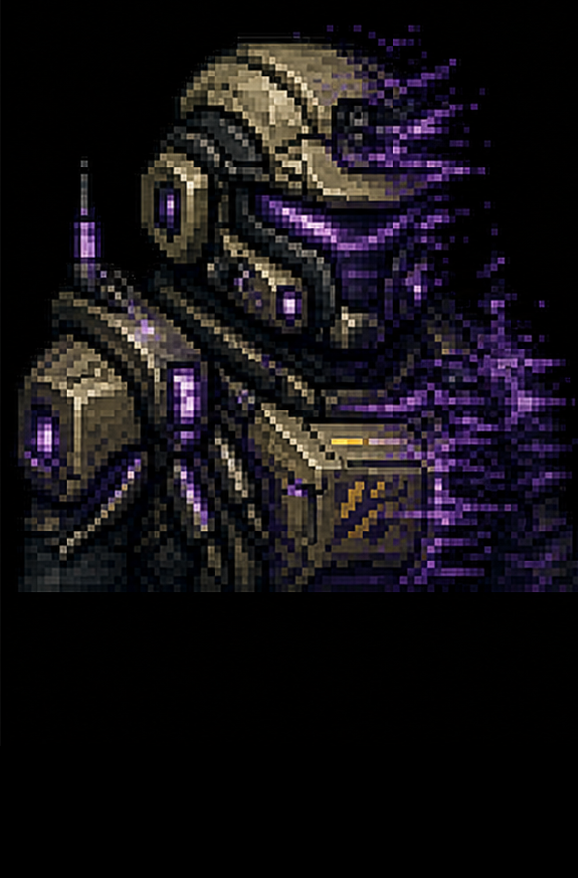
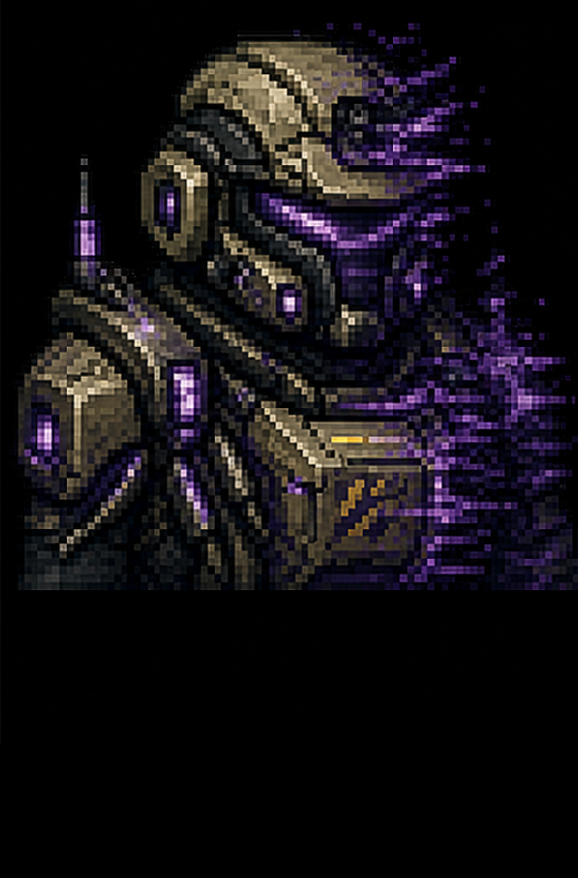
fix(art): the REAL portrait-zoom fix — bypass runtime mat-crop for hero portraits
Root cause of 'still looks the same': DataManager._crop_to_content(matted_bust=true)
re-cropped every hero portrait AT LOAD to its own silhouette bbox, re-deriving the
zoom from per-subject proportions — silently undoing any offline normalization of
the PNGs. Hero + evolution portraits now load through _finalize_hero_portrait:
opaque (offline-normalized) art returns WHOLE and tagged cutout (full_bleed=false,
so square frames keep showing the face and battle cards add the uniform
PORTRAIT_TOP_PAD); art with real alpha still crops to its opaque bbox. Enemy
portrait pipeline untouched. PNGs re-cut from pristine originals with the baked
headroom reduced (14px) to compose with the runtime pad.

Verified NUMERICALLY, not by eye: rendered helmet widths across the squad tiles
measure pixel-identical (111/111/111 px, tops 5/5/5); battle cards within 4%
(74/77/76). Full hard-gate suite passes.

diff --git a/docs/TRUTH.md b/docs/TRUTH.md
@@ -231,7 +231,7 @@ two-player crossfade pair, tracks in `assets/audio/music/sci_fi_loop_N.ogg`
 
 ## Assets — portraits (2026-07-07 wiring pass)
 
-**Hero portraits:** base art `assets/portraits/<hero_id>.png` (`DataManager.HERO_PORTRAIT_BY_ID`). **Evolved art convention: `assets/portraits/<hero_id>_<evo_id>.png`**, where `evo_id` is the evolution entry's `id` field in `heroes.data.json` — the lowercased callsign, schema-enforced (pyro, arc, blade, ravager, bulwark, sentinel, glacier, trench, medic, synth, overclocked, phantom, shadow, wraith, noise, nullwire). `DataManager.get_evolution_portrait()` resolves it; a missing file silently falls back to the base portrait (never errors, never blanks). The swap rides `GameState.get_run_unit_data()`, so every run-unit surface (battle cards, equip labels, sim) inherits it; the evolution screen previews each branch's own portrait. All 24 files (8 base overwrites + 16 evolutions) installed 2026-07-07. Both art styles pass through the crop-to-content contract (`_crop_to_content`, cutout vs full-bleed tag). **Zoom-normalized 2026-07-12 (Batch 6, two passes):** the source art was authored at inconsistent subject zooms (some busts ~20% larger than others), so every hero portrait PNG (25 files incl. variants) was re-cropped to a common helmet size + top position — a full-bleed bust at one consistent zoom/POV across the whole roster. Cropping only (native-res, no upscale). Automated silhouette metrics alone were NOT sufficient (helmet designs differ — side pods/antennas make measured width ≠ perceived size): the final pass is an auto baseline plus ~12 per-file hand-tuned zoom multipliers, converged over contact-sheet review rounds. If a portrait is ever re-authored, re-check it against the roster at card size rather than trusting a width metric.
+**Hero portraits:** base art `assets/portraits/<hero_id>.png` (`DataManager.HERO_PORTRAIT_BY_ID`). **Evolved art convention: `assets/portraits/<hero_id>_<evo_id>.png`**, where `evo_id` is the evolution entry's `id` field in `heroes.data.json` — the lowercased callsign, schema-enforced (pyro, arc, blade, ravager, bulwark, sentinel, glacier, trench, medic, synth, overclocked, phantom, shadow, wraith, noise, nullwire). `DataManager.get_evolution_portrait()` resolves it; a missing file silently falls back to the base portrait (never errors, never blanks). The swap rides `GameState.get_run_unit_data()`, so every run-unit surface (battle cards, equip labels, sim) inherits it; the evolution screen previews each branch's own portrait. All 24 files (8 base overwrites + 16 evolutions) installed 2026-07-07. Both art styles pass through the crop-to-content contract (`_crop_to_content`, cutout vs full-bleed tag). **Zoom-normalized 2026-07-12 (Batch 6, three passes — the third one is the load-bearing one):** the source art was authored at inconsistent subject zooms (some busts ~20% larger than others), so every hero portrait PNG (25 files incl. variants) was re-cropped OFFLINE to a common helmet size + top position (auto baseline + ~12 per-file hand-tuned zoom multipliers; cropping only, native-res). **Critically, the runtime mat-crop was the real culprit:** `DataManager._crop_to_content(matted_bust=true)` re-cropped every hero portrait at load to its own silhouette bbox, re-deriving zoom from per-subject proportions and silently undoing any offline framing. Hero portraits now load through `_finalize_hero_portrait` — opaque (normalized) art is returned WHOLE, tagged cutout (`full_bleed=false`, so square frames still show the face and battle cards add the uniform `PORTRAIT_TOP_PAD`); only art with real alpha still crops to its opaque bbox. Enemy portraits keep the old pipeline untouched. Verified numerically: rendered helmet widths across the squad tiles measure pixel-identical (111/111/111). **The offline-normalized PNG is the framing authority — never reintroduce a runtime content-crop for hero portraits.**
 
 **Enemy portraits:** `assets/portraits/enemies/` via `ENEMY_PORTRAIT_BY_NAME` (bare filenames only — no `res://` long forms), fallback `_slugify(display_name).png`. As of 2026-07-07 all 38 unit defs have explicit map entries and every one resolves. Legacy-era files renamed to current unit names (git history preserves the lineage): rift_macaque→pumice_macaque, eclipse_panther→geode_panther, ridge_drake→magma_drake, eclipse_raptor→pyroclast_raptor, thunder_ape→basalt_ape, void_reaver→mantle_tyrant, sparksprite→glitch_sprite, levyn_acolyte→init_acolyte, chronicle_scribe→checksum_scribe, geas_binder→axiom_binder, glimmer_double→forked_double, arc_titan_channeler→daemon_channeler, circlet_hierophant→root_hierophant, whitenoise_skimmer→static_skimmer, void_hound→obsidian_hound.
 
